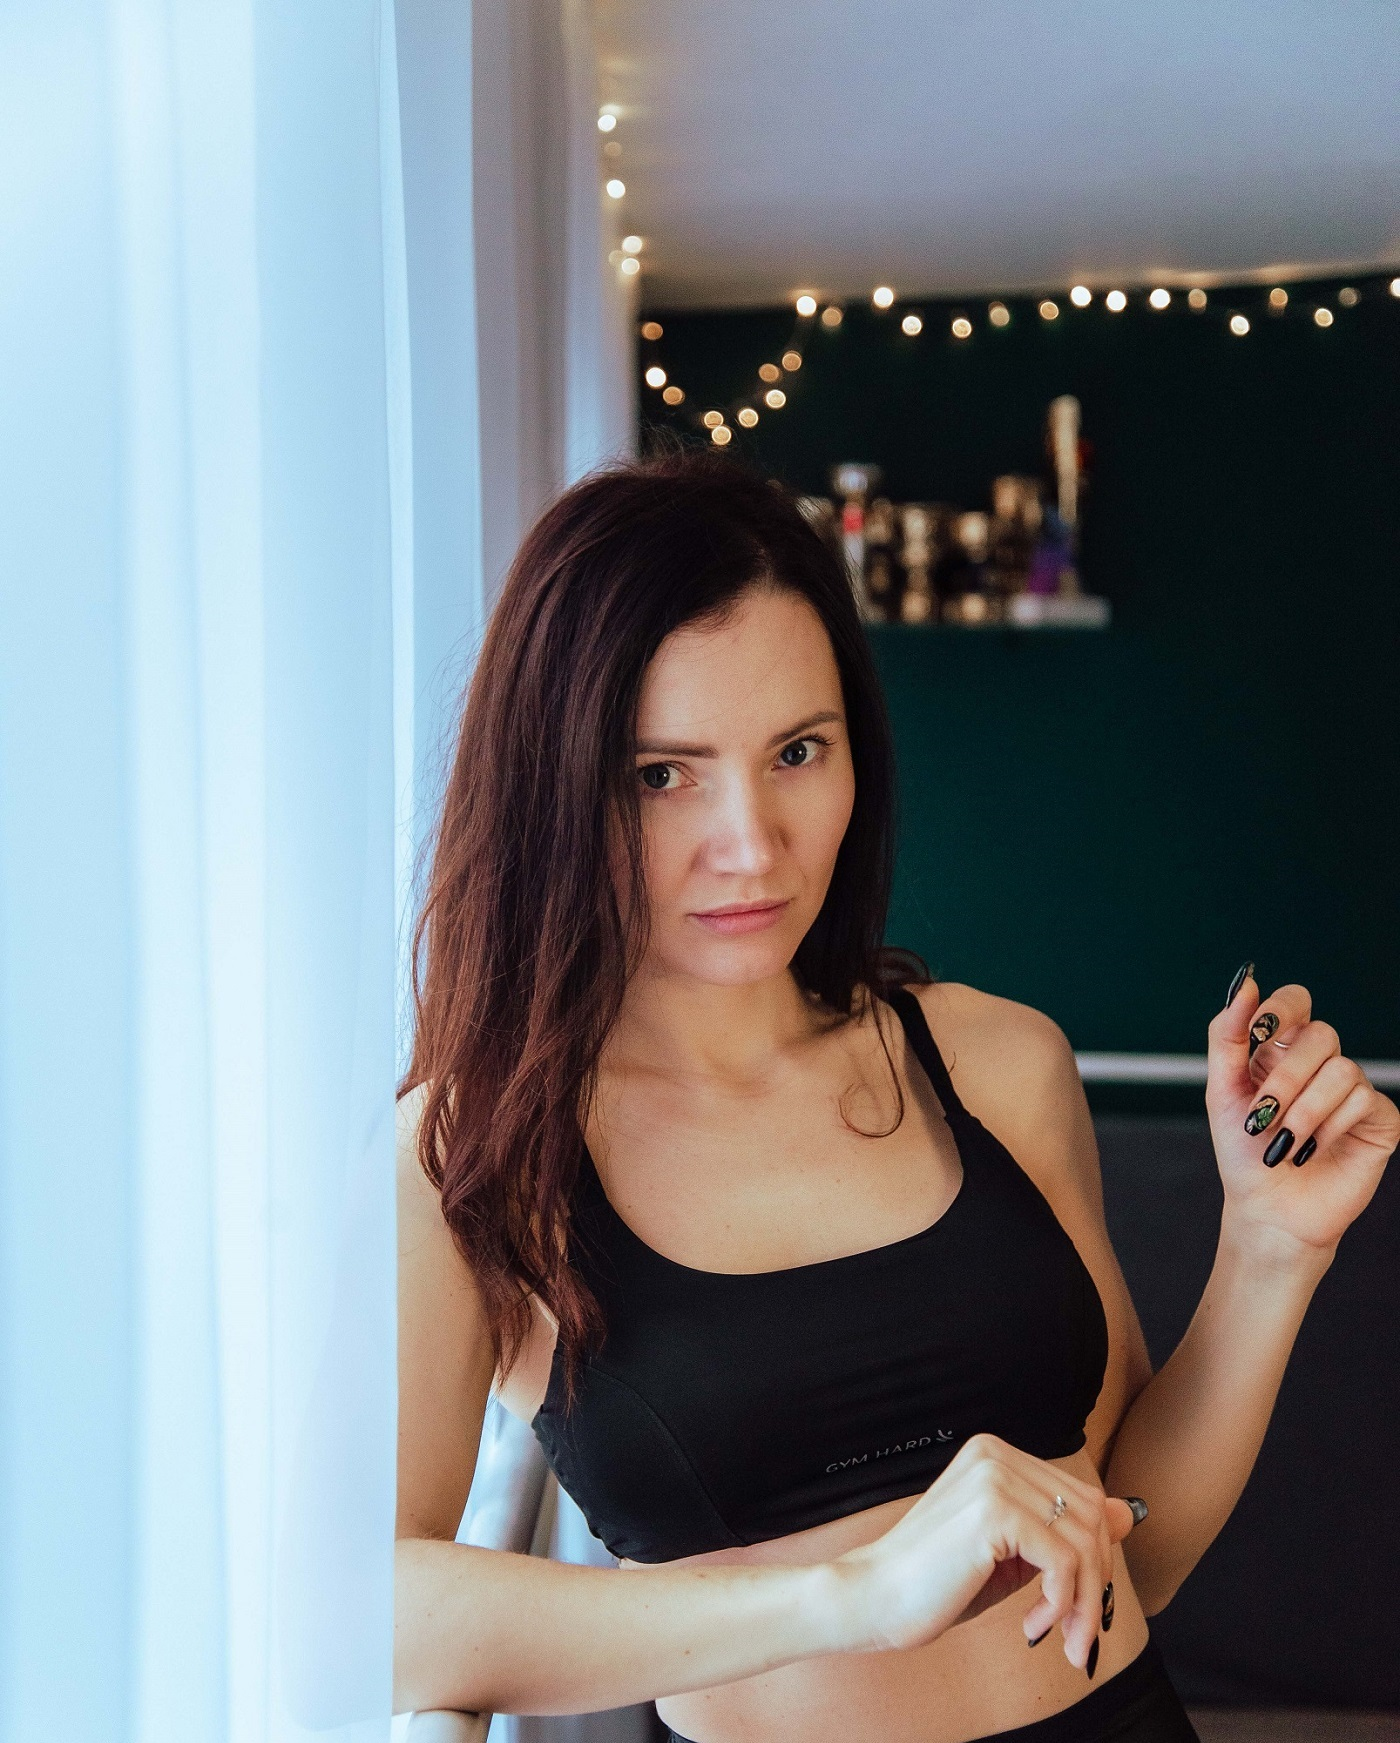
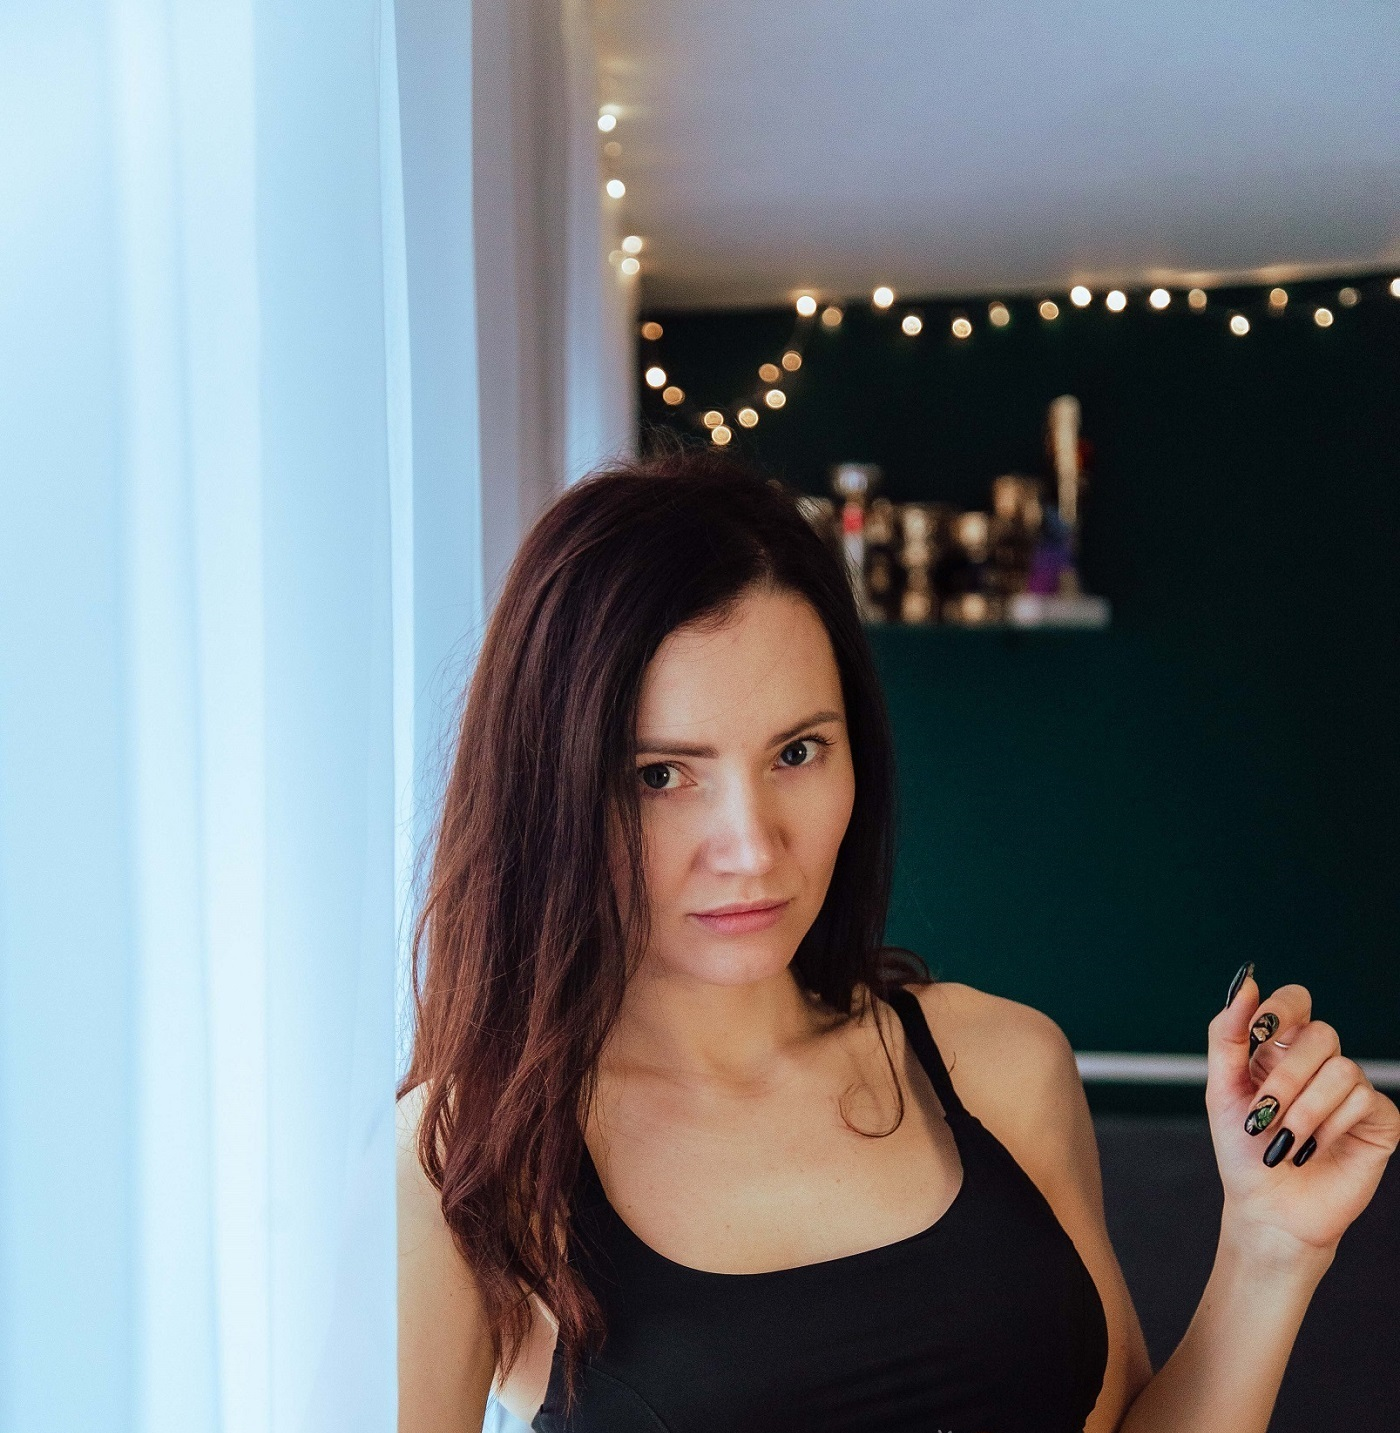
add photo

diff --git a/style.css b/style.css
@@ -70,7 +70,7 @@ svg {
 html,
 .picture_swiper {
   position: relative;
-  height: 625px;
+  /* height: 300px; */
 }
 
 .picture_swiper {
@@ -80,6 +80,7 @@ html,
   color: #000;
   margin: 0;
   padding: 0;
+  height: 625px;
 }
 
 .swiper {
@@ -114,6 +115,7 @@ html,
   width: 100%;
   height: 100%;
   object-fit: cover;
+  /* object-position: top; */
 }
 .banner_content {
   padding: 33px 64px 56px 67px;

diff --git a/index.html b/index.html
@@ -56,7 +56,7 @@
       <div class="swiper mySwiper">
         <div class="swiper-wrapper">
           <div class="swiper-slide">
-            <img src="asset/DSC_7438.jpg" alt="">
+            <img src="asset/DSC_0145.png" alt="">
           </div>
           <div class="swiper-slide">
             <img src="asset/DSC_7453.jpg" alt="">
